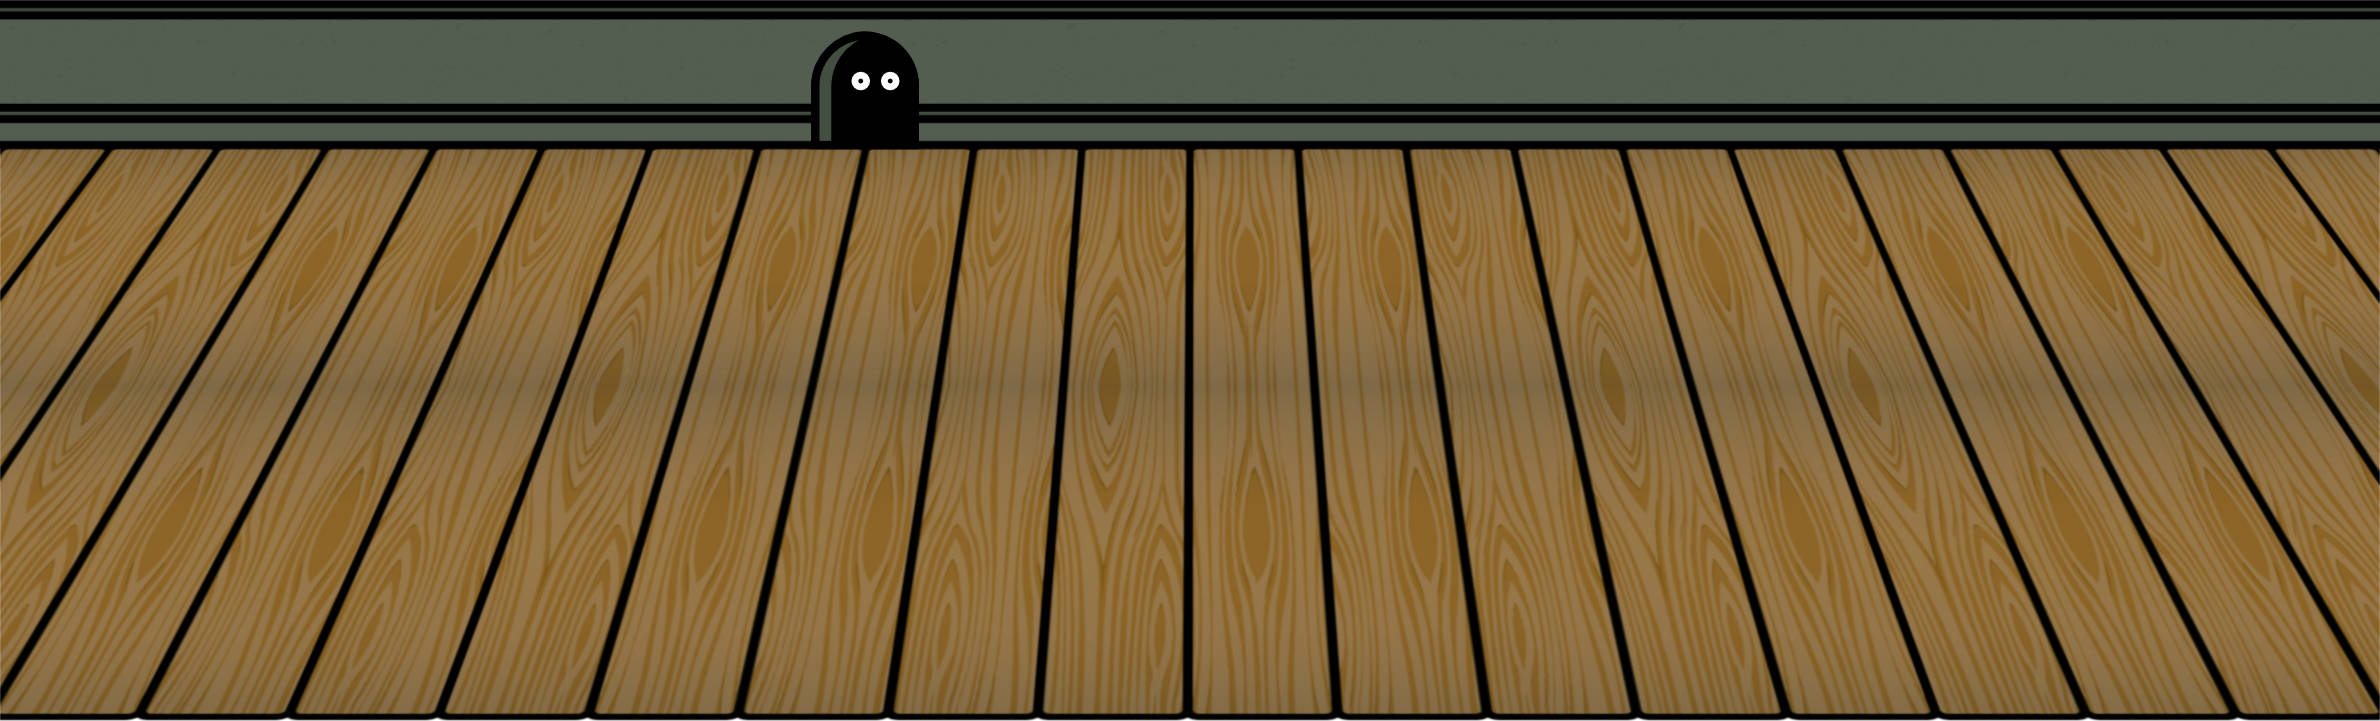
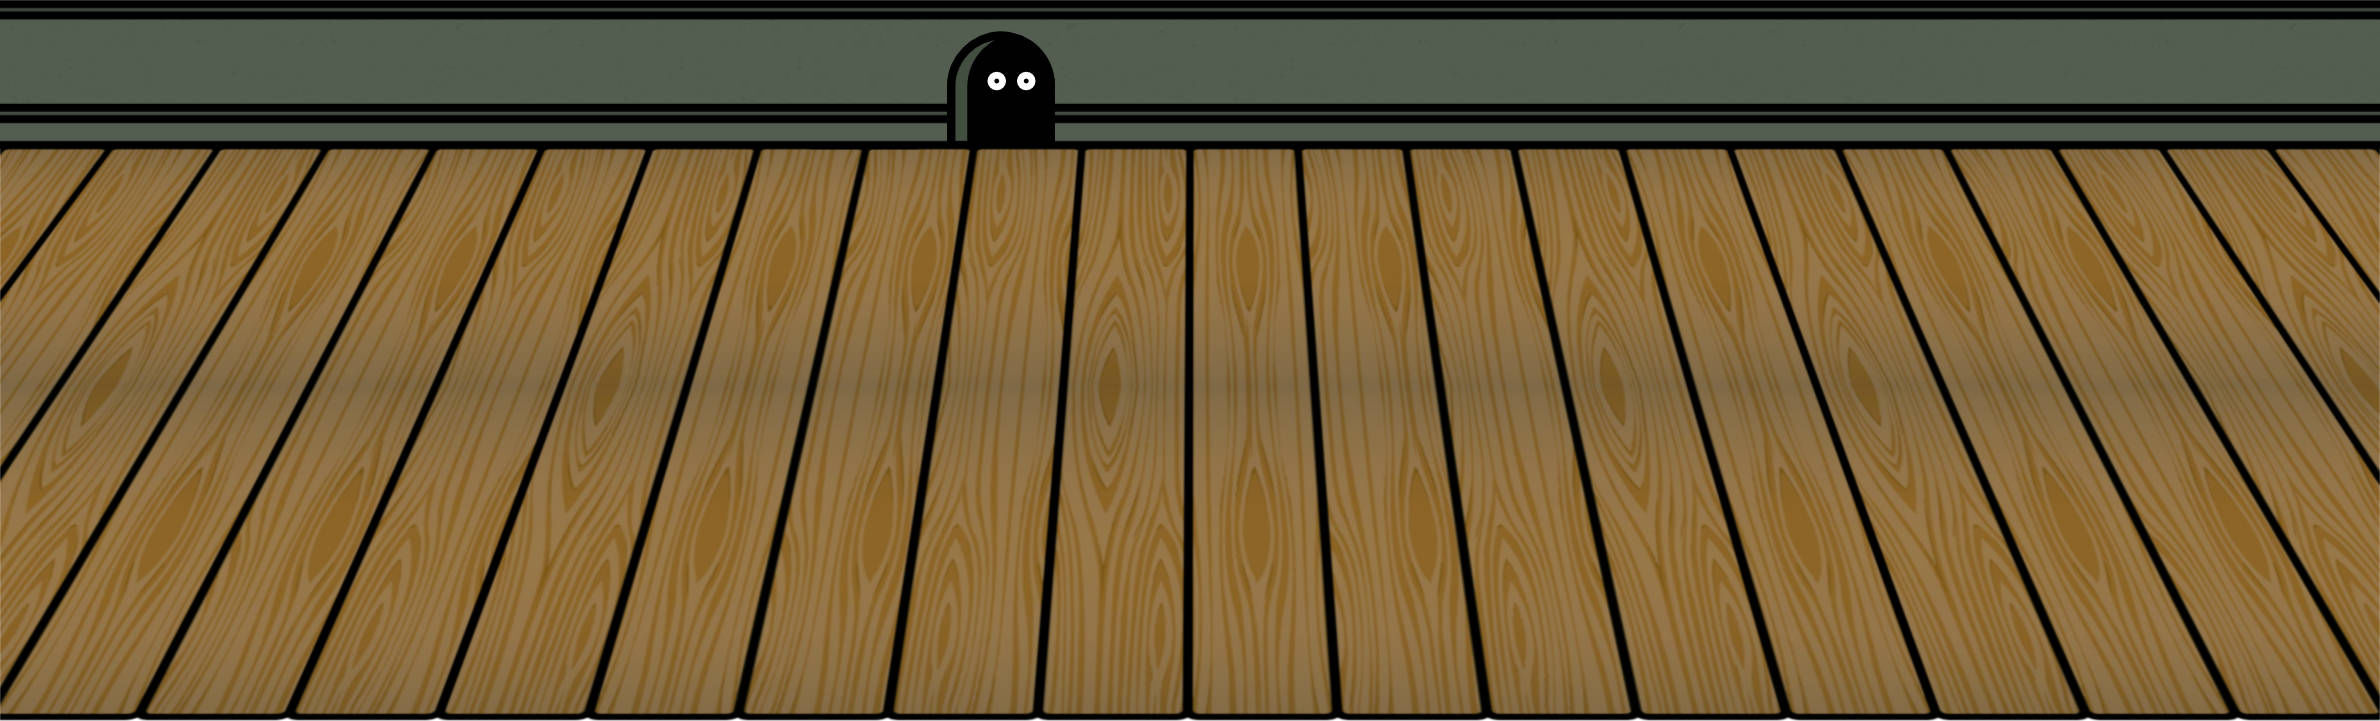
Use events rey

Changed region(s): [[0.342, 0.0305, 0.4664, 0.2136]]

diff --git a/server/resources/js/components/canvas/canvas.js b/server/resources/js/components/canvas/canvas.js
@@ -16,6 +16,7 @@ const CanvasController = function (
     $ctrl.drawing = false;
 
     $ctrl.color = null;
+    $ctrl.brush = 'thick';
     $ctrl.lastPoint = null;
 
 
@@ -45,6 +46,11 @@ const CanvasController = function (
         return [x, y];
     }
 
+    $ctrl.getBrushSize = () => {
+        console.log($ctrl.brush);
+        return $ctrl.brush == 'thick' ? 25 : 5;
+    };
+
     const mouseMove = (event) => {
         // console.log('Canvas mouse move', $ctrl.drawing, event);
         event.preventDefault();
@@ -56,10 +62,10 @@ const CanvasController = function (
             $ctrl.lastPoint = point;
         }
 
-        $('.g-canvas-brush').css('left', point[0] + 75 - (25 / 2));
-        $('.g-canvas-brush').css('top', point[1] + 102 - (25 / 2));
+        $('.g-canvas-brush').css('left', point[0] + 75 - ($ctrl.getBrushSize() / 2));
+        $('.g-canvas-brush').css('top', point[1] + 102 - ($ctrl.getBrushSize() / 2));
         // $ctrl.context.beginPath();
-        // $ctrl.context.arc(point[0], point[1], 25, 0, 2 * Math.PI);
+        // $ctrl.context.arc(point[0], point[1], $ctrl.getBrushSize(), 0, 2 * Math.PI);
         // $ctrl.context.stroke();
         // $ctrl.context.endPath();
 
@@ -71,7 +77,7 @@ const CanvasController = function (
             $ctrl.context.beginPath();
             $ctrl.context.moveTo($ctrl.lastPoint[0], $ctrl.lastPoint[1]);
             $ctrl.context.strokeStyle = $ctrl.color.hex;
-            $ctrl.context.lineWidth = 25;
+            $ctrl.context.lineWidth = $ctrl.getBrushSize();
             $ctrl.context.lineCap = 'round';
             $ctrl.context.lineJoin = 'round';
             $ctrl.context.lineTo(point[0], point[1]);
@@ -191,6 +197,10 @@ const CanvasController = function (
         $ctrl.color = color;
     });
 
+    $scope.$on('changeBrush', (event, brush) => {
+        $ctrl.brush = brush;
+    });
+
     $scope.$on('timeUp', (event, level) => {
         $ctrl.level = null;
     });
@@ -207,11 +217,6 @@ CanvasController.$inject = [
 const Canvas = {
     template: tmpl,
     controller: CanvasController,
-    bindings: {
-        brush: '<?gBrush',
-        height: '<?gHeight',
-        width: '<?gWidth',
-    },
 };
 
 export default Canvas;

diff --git a/server/resources/sass/app.scss b/server/resources/sass/app.scss
@@ -137,7 +137,7 @@ g-palette {
         width: 478px;
         height: 355px;
         padding-top: 29px;
-        padding-left: 147px;
+        padding-left: 160px;
 
         .g-palette-colors {
             display: grid;
@@ -146,7 +146,7 @@ g-palette {
             grid-column-gap: 0px;
             grid-row-gap: 19px;
             text-align: center;
-            width: 330px;
+            width: 310px;
 
             .btn {
                 width: 56px;
@@ -165,6 +165,38 @@ g-palette {
     .btn:focus {
         outline: 0;
         box-shadow: none;
+    }
+
+    .g-palette-brush-thin {
+        background-image: url(/images/brush_small.png);
+        background-repeat: no-repeat;
+        background-size: contain;
+        width: 43px;
+        height: 284px;
+        position: absolute;
+        left: 110px;
+        top: 85px;
+        cursor: pointer;
+
+        &.g-palette-brush-selected {
+            background-image: url(/images/brush_small_selected.png);
+        }
+    }
+
+    .g-palette-brush-thick {
+        background-image: url(/images/brush_big.png);
+        background-repeat: no-repeat;
+        background-size: contain;
+        width: 43px;
+        height: 284px;
+        position: absolute;
+        left: 60px;
+        top: 85px;
+        cursor: pointer;
+
+        &.g-palette-brush-selected {
+            background-image: url(/images/brush_big_selected.png);
+        }
     }
 }
 

diff --git a/server/resources/js/components/game/game.tmpl.html b/server/resources/js/components/game/game.tmpl.html
@@ -4,13 +4,11 @@
     <div class="g-game-wrapper">
         <div class="g-game-left">
             <g-score ng-show="$ctrl.level" class="d-inline-block"></g-score>
-            <g-palette g-on-color-change="$ctrl.onPaletteColorChange(color)" ng-show="$ctrl.level"></g-palette>
+            <g-palette ng-show="$ctrl.level"></g-palette>
         </div>
         <div class="g-game-right">
             <button type="button" class="btn btn-primary p-game-reload" onclick="location.reload()"></button>
-            <g-canvas g-brush="$ctrl.brush" g-on-start-stroke="$ctrl.onBrushStartStroke(point)"
-                g-on-continue-stroke="$ctrl.onBrushContinueStroke(canvas, context, point)"
-                g-on-end-stroke="$ctrl.onBrushEndStroke(event)" ng-show="$ctrl.level"></g-canvas>
+            <g-canvas ng-show="$ctrl.level"></g-canvas>
         </div>
     </div>
 </div>

diff --git a/server/resources/js/components/palette/palette.tmpl.html b/server/resources/js/components/palette/palette.tmpl.html
@@ -1,5 +1,7 @@
 <div class="g-palette" ng-show="$ctrl.level">
     <div class="g-palette-background">
+        <div class="g-palette-brush-thin" ng-click="$ctrl.changeBrush('thin')" ng-class="{'g-palette-brush-selected': $ctrl.brush == 'thin'}"></div>
+        <div class="g-palette-brush-thick" ng-click="$ctrl.changeBrush('thick')" ng-class="{'g-palette-brush-selected': $ctrl.brush == 'thick'}"></div>
         <div class="g-palette-colors">
             <button ng-repeat="color in $ctrl.colors" class="btn" type="button" ng-style="{ backgroundColor: color.hex }" ng-click="$ctrl.changeColor(color)" ng-class="{'g-palette-selected': $ctrl.color == color}"></button>
         </div>

diff --git a/server/resources/js/components/palette/palette.js b/server/resources/js/components/palette/palette.js
@@ -4,11 +4,18 @@ const PaletteController = function($scope, $rootScope) {
     const $ctrl = this;
     $ctrl.colors = [];
     $ctrl.color = null;
+    $ctrl.brush = 'thick';
 
     $ctrl.changeColor = color => {
         console.log('Change color', color);
         $ctrl.color = color;
         $rootScope.$broadcast('changeColor', color);
+    };
+
+    $ctrl.changeBrush = brush => {
+        console.log('Change brush', brush);
+        $ctrl.brush = brush;
+        $rootScope.$broadcast('changeBrush', brush);
     };
 
     $scope.$on('selectLevel', (event, level) => {

diff --git a/server/resources/js/components/canvas/canvas.tmpl.html b/server/resources/js/components/canvas/canvas.tmpl.html
@@ -6,6 +6,6 @@
             ng-attr-height="{{ $ctrl.height }}"
         ></canvas>
         <div class="g-canvas-overlay"></div>
-        <div class="g-canvas-brush"></div>
+        <div class="g-canvas-brush" ng-style="{width: $ctrl.getBrushSize(), height: $ctrl.getBrushSize()}"></div>
     </div>
 </div>
